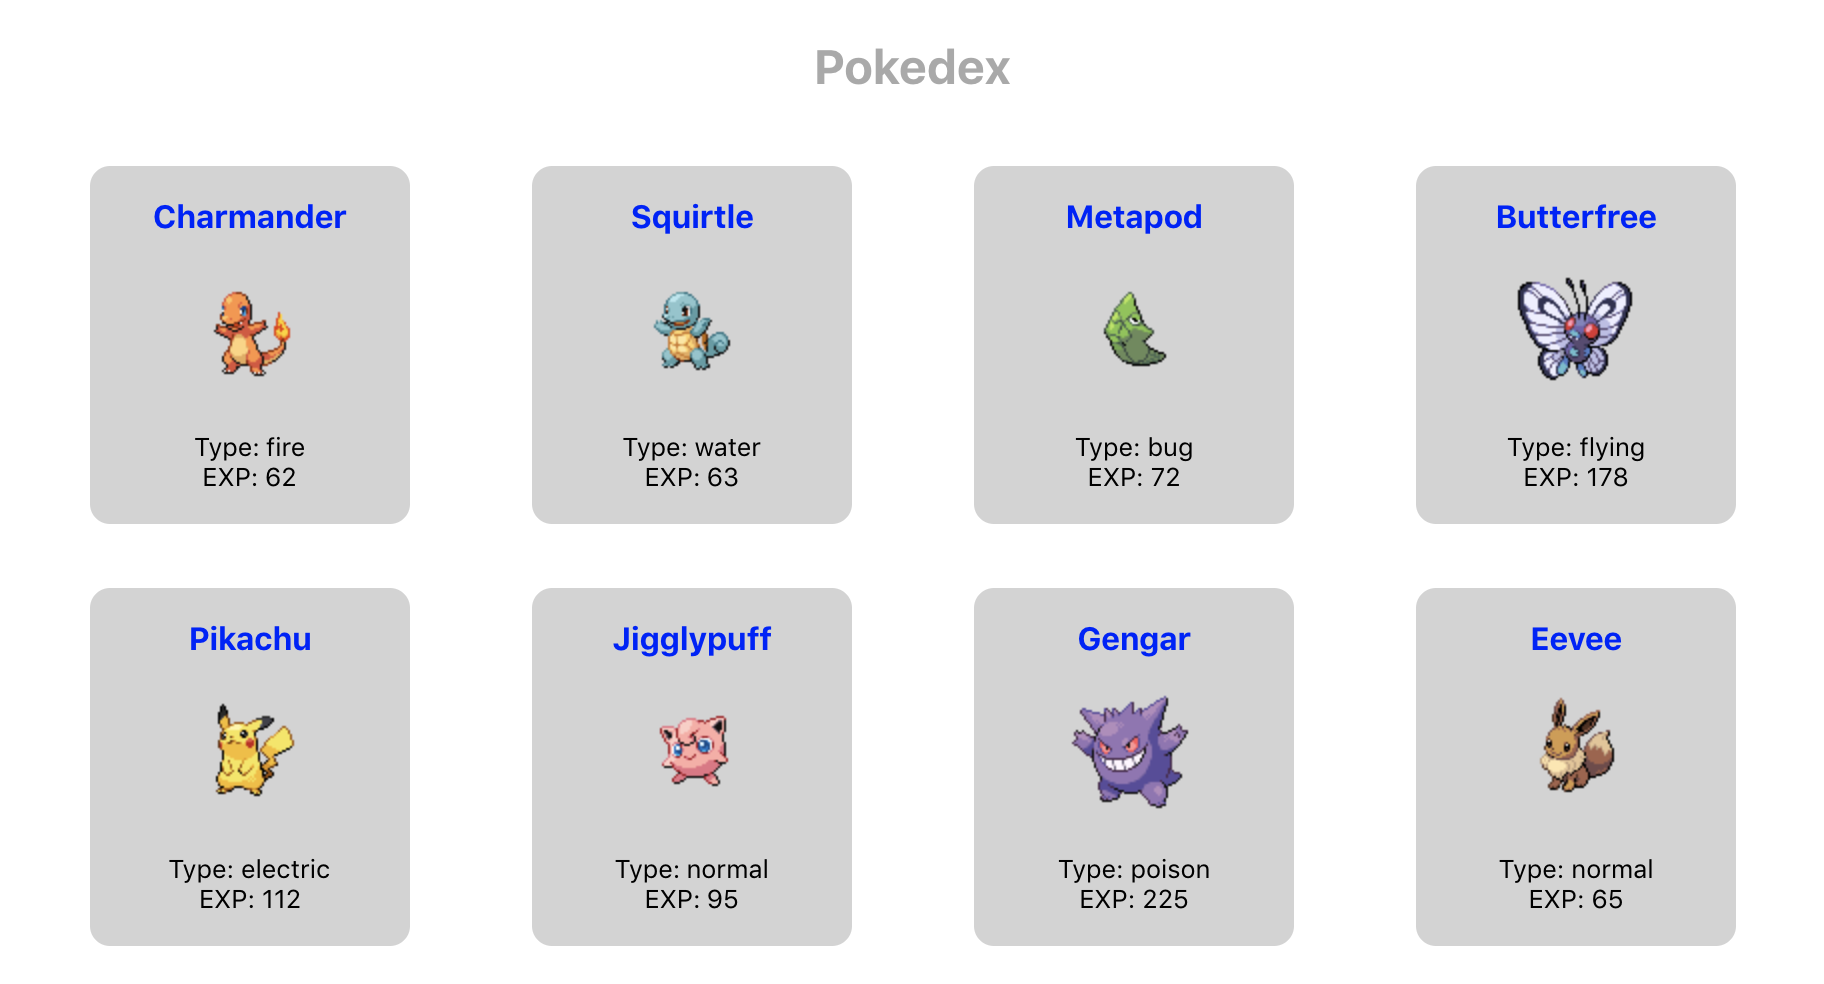
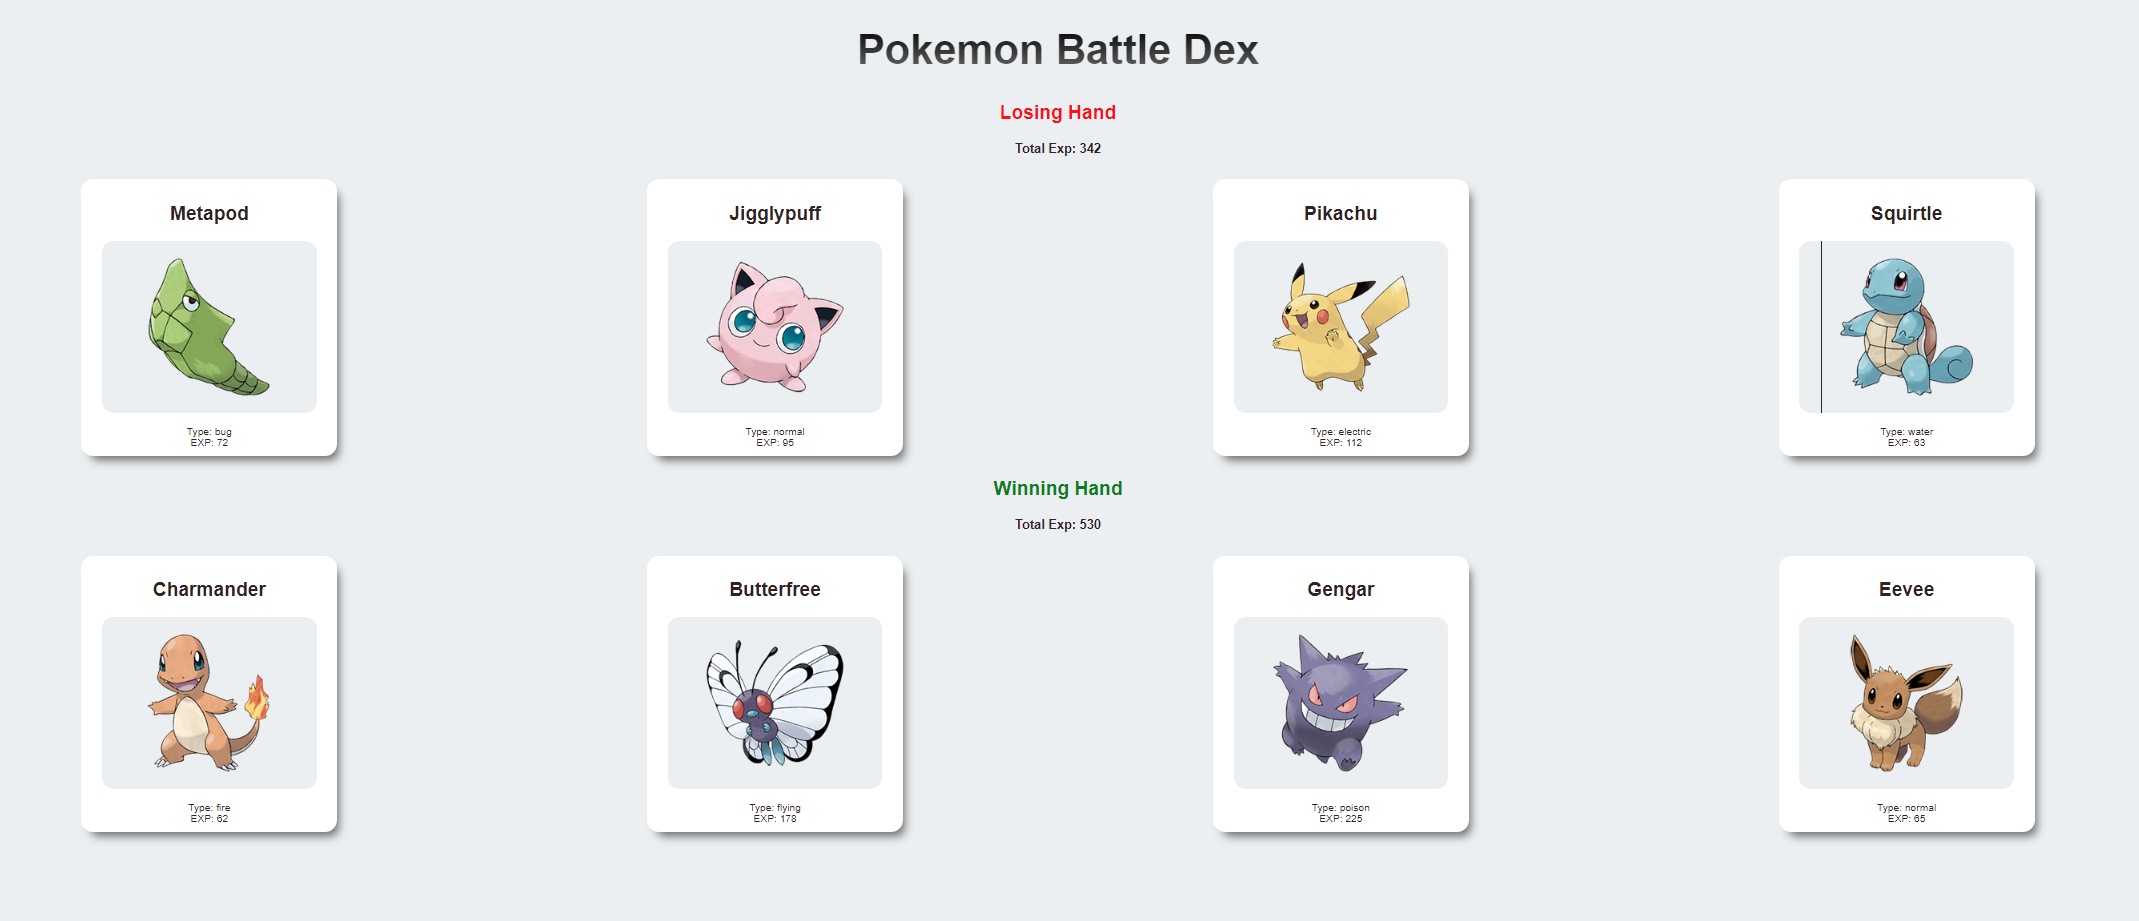
final css

diff --git a/public/index.html b/public/index.html
@@ -1,43 +1,23 @@
 <!DOCTYPE html>
 <html lang="en">
-  <head>
-    <meta charset="utf-8" />
-    <link rel="icon" href="%PUBLIC_URL%/favicon.ico" />
-    <meta name="viewport" content="width=device-width, initial-scale=1" />
-    <meta name="theme-color" content="#000000" />
-    <meta
-      name="description"
-      content="Web site created using create-react-app"
-    />
-    <link rel="apple-touch-icon" href="%PUBLIC_URL%/logo192.png" />
-    <!--
-      manifest.json provides metadata used when your web app is installed on a
-      user's mobile device or desktop. See https://developers.google.com/web/fundamentals/web-app-manifest/
-    -->
-    <link rel="manifest" href="%PUBLIC_URL%/manifest.json" />
-    <!--
-      Notice the use of %PUBLIC_URL% in the tags above.
-      It will be replaced with the URL of the `public` folder during the build.
-      Only files inside the `public` folder can be referenced from the HTML.
 
-      Unlike "/favicon.ico" or "favicon.ico", "%PUBLIC_URL%/favicon.ico" will
-      work correctly both with client-side routing and a non-root public URL.
-      Learn how to configure a non-root public URL by running `npm run build`.
-    -->
-    <title>React App</title>
-  </head>
-  <body>
-    <noscript>You need to enable JavaScript to run this app.</noscript>
-    <div id="root"></div>
-    <!--
-      This HTML file is a template.
-      If you open it directly in the browser, you will see an empty page.
+<head>
+  <meta charset="utf-8" />
+  <link rel="icon" href="%PUBLIC_URL%/favicon.ico" />
+  <meta name="viewport" content="width=device-width, initial-scale=1" />
+  <meta name="theme-color" content="#000000" />
 
-      You can add webfonts, meta tags, or analytics to this file.
-      The build step will place the bundled scripts into the <body> tag.
+  <link rel="apple-touch-icon" href="%PUBLIC_URL%/logo192.png" />
 
-      To begin the development, run `npm start` or `yarn start`.
-      To create a production bundle, use `npm run build` or `yarn build`.
-    -->
-  </body>
+  <link rel="manifest" href="%PUBLIC_URL%/manifest.json" />
+
+  <title>Pokemon Battle Dex</title>
+</head>
+
+<body>
+  <noscript>You need to enable JavaScript to run this app.</noscript>
+  <div id="root"></div>
+
+</body>
+
 </html>

diff --git a/src/Pokegame.js b/src/Pokegame.js
@@ -1,0 +1,40 @@
+import React, { Component } from "react";
+import Pokedex from "./Pokedex";
+
+class Pokegame extends Component {
+  static defaultProps = {
+    pokemon: [
+      { id: 4, name: "Charmander", type: "fire", base_experience: 62 },
+      { id: 7, name: "Squirtle", type: "water", base_experience: 63 },
+      { id: 11, name: "Metapod", type: "bug", base_experience: 72 },
+      { id: 12, name: "Butterfree", type: "flying", base_experience: 178 },
+      { id: 25, name: "Pikachu", type: "electric", base_experience: 112 },
+      { id: 39, name: "Jigglypuff", type: "normal", base_experience: 95 },
+      { id: 94, name: "Gengar", type: "poison", base_experience: 225 },
+      { id: 133, name: "Eevee", type: "normal", base_experience: 65 },
+    ],
+  };
+  render() {
+    let hand1 = [];
+    let hand2 = [...this.props.pokemon];
+
+    while (hand1.length < hand2.length) {
+      let randIdx = Math.floor(Math.random() * hand2.length);
+      let randPokemon = hand2.splice(randIdx, 1)[0]; // spice returns an arr so [0]
+      hand1.push(randPokemon);
+    }
+
+    let exp1 = hand1.reduce((exp, pokemon) => exp + pokemon.base_experience, 0);
+    let exp2 = hand2.reduce((exp, pokemon) => exp + pokemon.base_experience, 0);
+
+    return (
+      <div>
+        <h1 className="Pokegame-title">Pokemon Battle Dex</h1>
+        <Pokedex pokemon={hand1} exp={exp1} iswinner={exp1 > exp2} />
+        <Pokedex pokemon={hand2} exp={exp2} iswinner={exp2 > exp1} />
+      </div>
+    );
+  }
+}
+
+export default Pokegame;

diff --git a/src/index.css b/src/index.css
@@ -1,16 +1,23 @@
 body {
   margin: 0;
-  font-family: -apple-system, BlinkMacSystemFont, 'Segoe UI', 'Roboto', 'Oxygen',
-    'Ubuntu', 'Cantarell', 'Fira Sans', 'Droid Sans', 'Helvetica Neue',
-    sans-serif;
+  font-family: 'Poppins', Arial, sans-serif;
+  /* Modern font family */
   -webkit-font-smoothing: antialiased;
   -moz-osx-font-smoothing: grayscale;
   background-color: #eceff1;
-  color: #4d4d4d;
+  color: rgb(48, 34, 34);
   text-align: center;
 }
 
 code {
-  font-family: source-code-pro, Menlo, Monaco, Consolas, 'Courier New',
-    monospace;
+  font-family: source-code-pro, Menlo, Monaco, Consolas, 'Courier New', monospace;
+}
+
+.Pokegame-title {
+  font-size: 52px;
+  font-family: 'Montserrat', sans-serif;
+  /* Another modern font family */
+  background: -webkit-linear-gradient(#000000, #6d6d6d);
+  -webkit-background-clip: text;
+  -webkit-text-fill-color: transparent;
 }

diff --git a/src/Podecard.css b/src/Podecard.css
@@ -1,13 +1,32 @@
 .Pokecard {
-  border-radius: 5px;
+  border-radius: 15px;
   width: 300px;
   padding: 10px;
-  margin: 1rem;
+  margin: 0.5rem;
   box-shadow: 7px 10px 12px -5px rgba(0, 0, 0, 0.56);
   text-align: center;
   background-color: white;
 }
 
-.Pokecard-title {}
+.Pokecard-img {
+  display: flex;
+  justify-content: center;
+  align-items: center;
+  background-color: #eceff1;
+  border-radius: 15px;
+  margin: 1rem;
 
-.Pokecard-data {}
+}
+
+.Pokecard img {
+  transition: all ease 500ms;
+}
+
+.Pokecard img:hover {
+  transform: scale(1.25);
+  opacity: 0.7;
+}
+
+.Pokecard-data {
+  font-size: 80%;
+}

diff --git a/src/Pokedex.js b/src/Pokedex.js
@@ -16,9 +16,16 @@ class Pokedex extends Component {
     ],
   };
   render() {
+    let title;
+    if (this.props.iswinner) {
+      title = <h2 className="Podedex-winner">Winning Hand</h2>;
+    } else {
+      title = <h2 className="Podedex-loser">Losing Hand</h2>;
+    }
     return (
       <div className="Podedex">
-        <h1>PokeDex</h1>
+        {title}
+        <h4>Total Exp: {this.props.exp}</h4>
         <div className="Pokedex-cards">
           {this.props.pokemon.map((p) => (
             <Pokecard

diff --git a/src/Pokecard.js b/src/Pokecard.js
@@ -15,7 +15,9 @@ class Pokecard extends Component {
     return (
       <div className="Pokecard">
         <h2 className="Pokecard-title">{this.props.name}</h2>
-        <img src={imageLink(this.props.id)} alt={this.props.name} />
+        <div className="Pokecard-img">
+          <img src={imageLink(this.props.id)} alt={this.props.name} />
+        </div>
         <div class="Pokecard-data">Type: {this.props.type}</div>
         <div class="Pokecard-data">EXP: {this.props.exp}</div>
       </div>

diff --git a/src/App.js b/src/App.js
@@ -1,13 +1,13 @@
 import React, { Component } from "react";
 import Pokecard from "./Pokecard";
-import Pokedex from "./Pokedex";
+import Pokegame from "./Pokegame";
 import "./App.css";
 
 class App extends Component {
   render() {
     return (
       <div className="App">
-        <Pokedex />
+        <Pokegame />
       </div>
     );
   }

diff --git a/src/Pokedex.css b/src/Pokedex.css
@@ -3,3 +3,11 @@
   justify-content: space-evenly;
   flex-wrap: wrap;
 }
+
+.Podedex-winner {
+  color: green;
+}
+
+.Podedex-loser {
+  color: red;
+}
